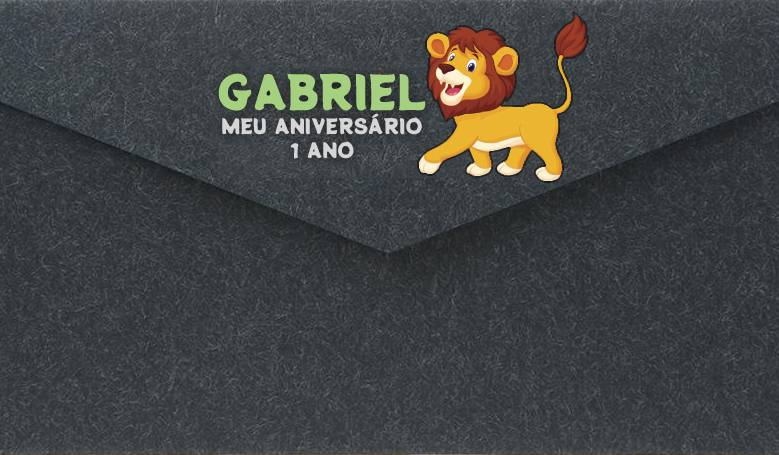
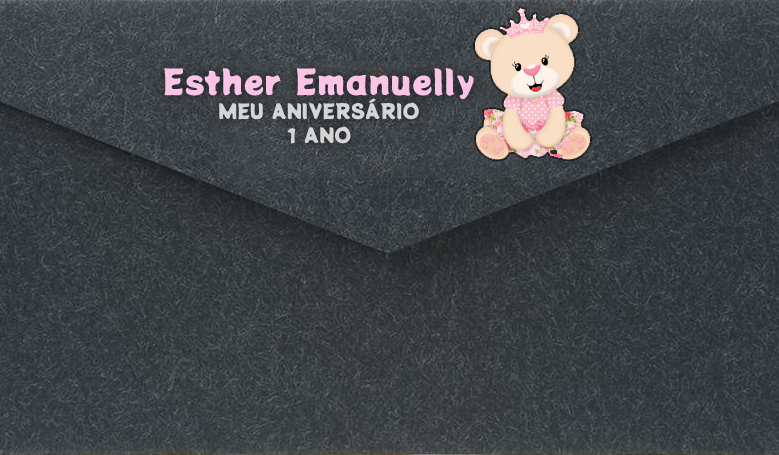
UP ESTHER EMANUELLY

Changed region(s): [[0.1849, 0.0, 0.7702, 0.4]]

diff --git a/src/App.tsx b/src/App.tsx
@@ -42,16 +42,16 @@ function App() {
         <img src="/invite.jpeg" alt="invite" />
       </article>
       <aside>
-        <h1>Aniversário do Gabriel</h1>
+        <h1>Aniversário do Esther Emanuelly</h1>
         <div className="aside-content">
           <h2 className="confirm">Confirme sua presença</h2>
           <div className="details">
             <FiPhone />
             <div>
               <p>
-                (19) 98243-7683 - Chamada ou WhatsApp.
+                (19) 98825-5988 / 98825-6841 - Chamada ou WhatsApp.
                 <br />
-                Prazo para confirmações até <strong>14.07.2022</strong>.
+                Prazo para confirmações até <strong>05.10.2022</strong>.
               </p>
             </div>
           </div>
@@ -62,17 +62,17 @@ function App() {
           <div className="details">
             <FiCalendar />
             <div>
-              <p>Dia 23.07.2022, a partir de 16:00 horas.</p>
+              <p>Dia 09.10.2022, a partir de 11:00 horas.</p>
               <div className="atcb">
                 {"{"}
-                "name":"ANIVERSÁRIO DO GABRIEL", "description":"Estou muito
-                ansioso por contar contigo no meu aniversário. Pedimos por
-                gentileza que traga a sua bebida (suco-cerveja-refrigerante).
-                Convite:→ [url]https://gabriel-convite.vercel.app/[/url]",
-                "startDate":"2022-07-23T16:00", "endDate":"2022-07-23T20:00",
-                "location":"Espaço Espinosa, R. Nair Bertolotti Stocco - Água
-                Branca, Piracicaba - SP, 13426-072, Brasil", "label":"Adicionar
-                ao calendário", "options":[ "Apple", "Google", "Outlook.com" ],
+                "name":"ANIVERSÁRIO DO ESTHER EMANUELLY", "description":"Estou
+                muito ansioso por contar contigo no meu aniversário. Pedimos por
+                gentileza que traga seu kit churrasco. Convite:→
+                [url]https://gabriel-convite.vercel.app/[/url]",
+                "startDate":"2022-10-09T11:00", "endDate":"2022-10-11T20:00",
+                "location":"Chácara dos Universitários, Rua 11, glebas 32,
+                chácara 75, Bairro Taquaral", "label":"Adicionar ao calendário",
+                "options":[ "Apple", "Google", "Outlook.com" ],
                 "timeZone":"Europe/Berlin", "inline":true, "trigger":"click"
                 {"}"}
               </div>
@@ -84,12 +84,11 @@ function App() {
           <div className="details">
             <FiMapPin />
             <div>
-              <h3>Espaço Espinosa</h3>
+              <h3>Chácara dos Universitários</h3>
               <p className="address">
-                R. Nair Bertolotti Stocco - Água Branca, Piracicaba - SP,
-                13426-072, Brasil.
+                Rua 11, glebas 32, chácara 75, Bairro Taquaral
               </p>
-              <a target="_blank" href="https://goo.gl/maps/yqH5eKDjJgsuDjJy6">
+              <a target="_blank" href="https://goo.gl/maps/yuH3b5ztoLAweRwT9">
                 Ver no mapa do google
               </a>
             </div>

diff --git a/src/App.scss b/src/App.scss
@@ -34,14 +34,14 @@
     }
 
     &:hover img {
-      border: 4px solid rgba(165, 208, 128, 0.9);
+      border: 4px solid rgba(249, 196, 230, 1);
     }
 
     img {
       width: 100%;
       height: auto;
       box-shadow: 5px 5px 10px rgba(0, 0, 0, 0.3);
-      border: 4px solid rgba(118, 234, 255, 0.5);
+      border: 4px solid rgba(249, 196, 230, 0.4);
       border-radius: 25px;
       z-index: 1;
       transition: border 0.5s;
@@ -113,9 +113,9 @@
 
     h1 {
       text-transform: uppercase;
-      font-size: 2.5rem;
+      font-size: 1.8rem;
       margin: 1.2rem;
-      color: rgb(140, 200, 87);
+      color: rgba(249, 196, 230, 1);
       text-shadow: 2px 2px 2px rgba($color: #fff, $alpha: 0.5);
     }
 
@@ -130,11 +130,11 @@
       border: 3px solid white;
       box-shadow: 5px 5px 5px rgba($color: #000000, $alpha: 0.3);
 
-      color: rgb(94, 94, 94);
+      color: #6d5c72;
 
       font-weight: bold;
 
-      background: rgb(240, 255, 226);
+      background: rgb(254, 240, 250);
 
       & + div {
         margin-top: 1.3rem;
@@ -144,7 +144,7 @@
         text-transform: uppercase;
         font-size: 1.7rem;
         margin: 1.5rem;
-        color: rgb(129, 129, 129);
+        color: #d895c2;
         //text-decoration: underline;
       }
 
@@ -181,7 +181,7 @@
         svg {
           width: 40px;
           height: 40px;
-          color: rgb(102, 151, 69);
+          color: rgba(249, 196, 230, 1);
         }
 
         div {
@@ -212,7 +212,7 @@
     border: 1px solid lightgray;
     border-radius: 6px;
     box-shadow: 1px 2px 10px 0 rgb(0 0 0 / 20%);
-    color: rgb(102, 151, 69);
+    color: #a45aba;
     cursor: pointer;
     display: flex;
     line-height: 24px;
@@ -230,7 +230,7 @@
     z-index: 1;
 
     &:hover {
-      color: #97d575;
+      color: #f589cd;
     }
   }
 

diff --git a/src/index.css b/src/index.css
@@ -17,8 +17,8 @@ body {
   width: 100vw;
   height: 100vh;
   min-height: 100vh;
-  background-color: rgb(165, 208, 128);
-  background: linear-gradient(180deg, rgb(245, 255, 236) 0%, rgba(165, 208, 128) 100%);
+  background-color: rgb(249, 196, 230);
+  background: linear-gradient(180deg, rgb(249, 229, 243) 0%, rgb(255, 218, 241) 100%);
   background-attachment: fixed;
   overflow-x: hidden;
 }
